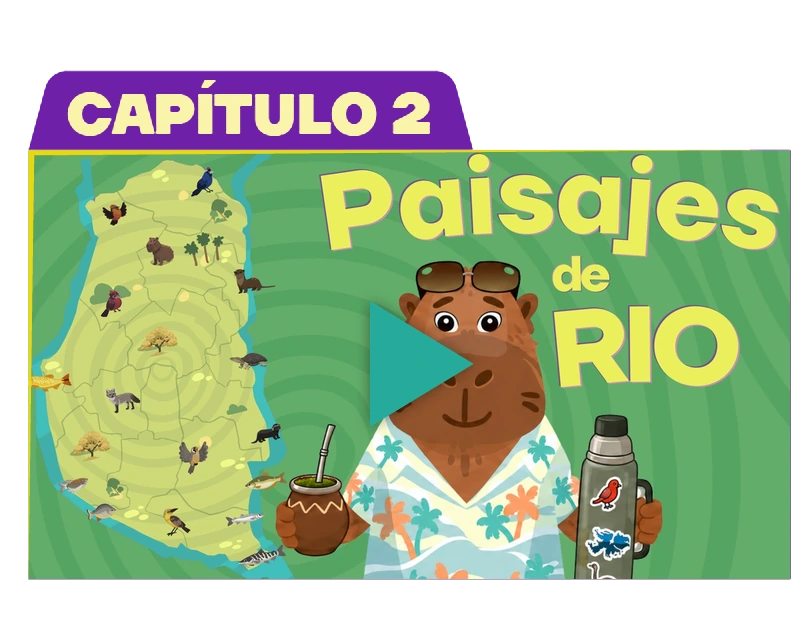
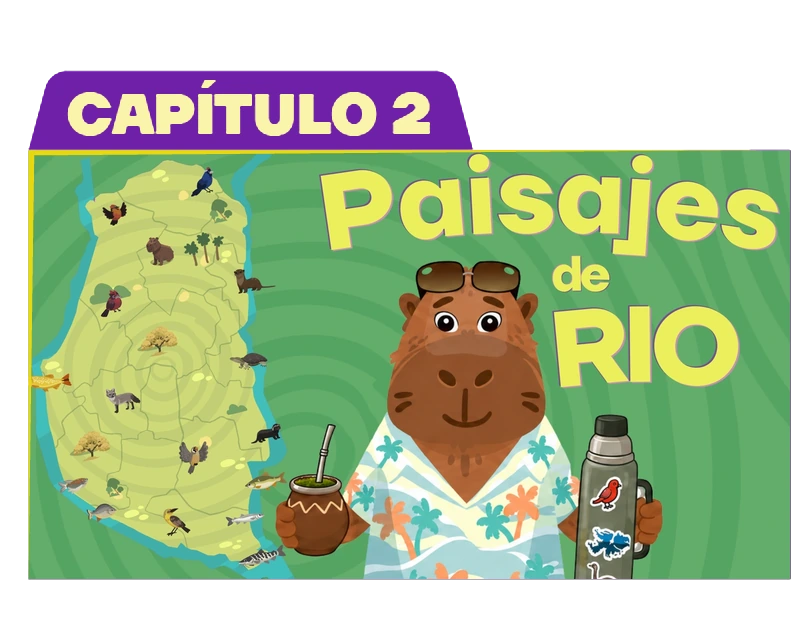
Hero responsive a pantalla completa y tarjetas sin icono de play
- Tarjetas de capitulo regeneradas sin el triangulo de play: se ve la
  portada completa.
- La pagina se parte en dos tableros: el hero (titulo + Gurisa + Rio)
  ocupa toda la primera pantalla y los tres frames quedan debajo del
  fold, con el espacio adaptandose al alto de cada ventana.
- El hero escala con el alto de la ventana (220svh de ancho de escena,
  con piso de 100% y tope de 170vw): el contenido ocupa ~70% del alto
  visible y queda centrado vertical exacto en cualquier pantalla.
- La primera pantalla muestra la escena continua (ondas y halo reales,
  sin franjas de color plano) y la seccion de abajo arranca en y=1530
  con una banda de fondo puro que se funde en gradiente sobre el final
  del hero: los dos tableros empalman sin costura visible.

Changed region(s): [[0.4332, 0.4872, 0.5879, 0.7003]]

diff --git a/index.html b/index.html
@@ -34,109 +34,65 @@
         Gurisa y Rio entre mates y aventuras
       </h1>
 
-      <div class="artboard" aria-label="Gurisa y Rio entre mates y aventuras">
-        <div class="scene">
-          <img
-            class="layer fondo"
-            src="partes/fondo000.png"
-            alt=""
-            aria-hidden="true"
-            draggable="false"
-          >
-          <img class="layer gradients" src="partes/gradients000.png" alt="" aria-hidden="true" draggable="false">
+      <div class="hero-stage">
+        <div class="artboard artboard--hero" aria-label="Gurisa y Rio entre mates y aventuras">
+          <div class="scene scene--hero">
+            <img class="layer fondo" src="partes/fondo000.png" alt="" aria-hidden="true" draggable="false">
+            <img class="layer gradients" src="partes/gradients000.png" alt="" aria-hidden="true" draggable="false">
+            <img class="layer titulo float-soft" src="partes/titulo_pajaro.webp" alt="" aria-hidden="true" draggable="false">
+            <img class="layer girl-standing float-soft delay-1" src="partes/Girl_standing.png" alt="" aria-hidden="true" draggable="false">
+            <img class="layer boy-standing float-soft delay-2" src="partes/Boy_standing.png" alt="" aria-hidden="true" draggable="false">
+          </div>
+        </div>
+      </div>
 
-        <img class="layer titulo float-soft" src="partes/titulo_pajaro.webp" alt="" aria-hidden="true" draggable="false">
-        <img class="layer girl-standing float-soft delay-1" src="partes/Girl_standing.png" alt="" aria-hidden="true" draggable="false">
-        <img class="layer boy-standing float-soft delay-2" src="partes/Boy_standing.png" alt="" aria-hidden="true" draggable="false">
-
-        <img class="layer volti float-soft delay-2" src="partes/Volti_y_amperin_and_animal.png" alt="" aria-hidden="true" draggable="false">
-        <img class="layer modo float-soft delay-3" src="partes/Modo_carpincho_and_animal.png" alt="" aria-hidden="true" draggable="false">
-        <img class="layer jujo float-soft delay-1" src="partes/jujo_aparece_and_man.png" alt="" aria-hidden="true" draggable="false">
-
-        <img class="layer episodios-title title-drift" src="partes/Episodios.png" alt="" aria-hidden="true" draggable="false">
-        <img class="layer capitulo-1-img pop-hover" src="partes/Capitulo1.webp" alt="" aria-hidden="true" draggable="false">
-        <img class="layer capitulo-2-img pop-hover" src="partes/Capitulo2.webp" alt="" aria-hidden="true" draggable="false">
-        <img class="layer capitulo-3-img pop-hover" src="partes/Capitulo3.webp" alt="" aria-hidden="true" draggable="false">
-        <img class="layer capitulo-4-img pop-hover" src="partes/Capitulo4.webp" alt="" aria-hidden="true" draggable="false">
-        <img class="layer capitulo-5-img pop-hover" src="partes/Capitulo5.webp" alt="" aria-hidden="true" draggable="false">
-        <img class="layer capybara-bike float-soft delay-3" src="partes/Capybara_on_bike.png" alt="" aria-hidden="true" draggable="false">
-        <img class="layer animal-pointing float-soft delay-1" src="partes/Animal_pointing_up.png" alt="" aria-hidden="true" draggable="false">
-
-        <img class="layer estrellitas sparkle" src="partes/estrellitas.png" alt="" aria-hidden="true" draggable="false">
-        <img class="layer guias-title title-drift delay-2" src="partes/Guias_para_el_aula.png" alt="" aria-hidden="true" draggable="false">
-        <img class="layer girl-jumping float-soft delay-1" src="partes/Girl_jumping.png" alt="" aria-hidden="true" draggable="false">
-        <img class="layer boy-jumping float-soft delay-2" src="partes/Boy_jumping.png" alt="" aria-hidden="true" draggable="false">
-        <img class="layer guia-1-img paper-wiggle" src="partes/Guia1.webp" alt="" aria-hidden="true" draggable="false">
-        <img class="layer guia-2-img paper-wiggle delay-1" src="partes/Guia2.webp" alt="" aria-hidden="true" draggable="false">
-        <img class="layer guia-3-img paper-wiggle delay-2" src="partes/Guia3.webp" alt="" aria-hidden="true" draggable="false">
-        <img class="layer guia-4-img paper-wiggle delay-3" src="partes/Guia4.webp" alt="" aria-hidden="true" draggable="false">
-        <img class="layer guia-5-img paper-wiggle delay-1" src="partes/Guia5.webp" alt="" aria-hidden="true" draggable="false">
-
-        <img class="layer queres-img pulse-soft" src="partes/Queres_conocer.png" alt="" aria-hidden="true" draggable="false">
-        <img class="layer enersa-img float-soft delay-2" src="partes/Enersa_sign_and_animal_sitting.png" alt="" aria-hidden="true" draggable="false">
-        <img class="layer turismo-img float-soft delay-3" src="partes/Turismo_sign_and_animal_standing.png" alt="" aria-hidden="true" draggable="false">
-        <img class="layer mientrerios-img float-soft delay-1" src="partes/mientrerios_sign_and_man_standing.png" alt="" aria-hidden="true" draggable="false">
-
-        <a class="hotspot volti-button" href="#" data-target="volti" aria-label="Abrir Volti y Amperin"></a>
-        <a class="hotspot modo-button" href="#" data-target="modo" aria-label="Abrir Modo Carpincho"></a>
-        <a class="hotspot jujo-button" href="#" data-target="jujo" aria-label="Abrir Jujo aparece"></a>
-
-        <a
-          class="hotspot capitulo-1"
-          href="https://youtu.be/xgmZ50ChQK0"
-          target="_blank"
-          rel="noopener"
-          data-target="capitulo-1-img"
-          aria-label="Ver el capitulo 1 en YouTube"
-        ></a>
-        <a
-          class="hotspot capitulo-2"
-          href="https://youtu.be/vWThHisS7hY"
-          target="_blank"
-          rel="noopener"
-          data-target="capitulo-2-img"
-          aria-label="Ver el capitulo 2 en YouTube"
-        ></a>
-        <a
-          class="hotspot capitulo-3"
-          href="https://youtu.be/KFNbEnc6LHw"
-          target="_blank"
-          rel="noopener"
-          data-target="capitulo-3-img"
-          aria-label="Ver el capitulo 3 en YouTube"
-        ></a>
-        <a
-          class="hotspot capitulo-4"
-          href="https://youtu.be/b-zdLcTubB0"
-          target="_blank"
-          rel="noopener"
-          data-target="capitulo-4-img"
-          aria-label="Ver el capitulo 4 en YouTube"
-        ></a>
-        <a
-          class="hotspot capitulo-5"
-          href="https://youtu.be/6I3HvJMRZm8"
-          target="_blank"
-          rel="noopener"
-          data-target="capitulo-5-img"
-          aria-label="Ver el capitulo 5 en YouTube"
-        ></a>
-
-        <a class="hotspot guia-1" href="#" data-target="guia-1-img" aria-label="Abrir guia 1"></a>
-        <a class="hotspot guia-2" href="#" data-target="guia-2-img" aria-label="Abrir guia 2"></a>
-        <a class="hotspot guia-3" href="#" data-target="guia-3-img" aria-label="Abrir guia 3"></a>
-        <a class="hotspot guia-4" href="#" data-target="guia-4-img" aria-label="Abrir guia 4"></a>
-        <a class="hotspot guia-5" href="#" data-target="guia-5-img" aria-label="Abrir guia 5"></a>
-
-        <a
-          class="hotspot queres-conocer"
-          href="#"
-          data-target="queres-img"
-          aria-label="Conocer mas aventuras de Gurisa y Rio"
-        ></a>
-        <a class="hotspot enersa" href="#" data-target="enersa-img" aria-label="Abrir Enersa"></a>
-          <a class="hotspot turismo" href="#" data-target="turismo-img" aria-label="Abrir Turismo"></a>
-          <a class="hotspot mientrerios" href="#" data-target="mientrerios-img" aria-label="Abrir Mientrerios"></a>
+      <div class="rest">
+        <div class="artboard artboard--rest">
+          <div class="scene scene--rest">
+            <img class="layer fondo" src="partes/fondo000.png" alt="" aria-hidden="true" draggable="false">
+            <img class="layer gradients" src="partes/gradients000.png" alt="" aria-hidden="true" draggable="false">
+            <img class="layer volti float-soft delay-2" src="partes/Volti_y_amperin_and_animal.png" alt="" aria-hidden="true" draggable="false">
+            <img class="layer modo float-soft delay-3" src="partes/Modo_carpincho_and_animal.png" alt="" aria-hidden="true" draggable="false">
+            <img class="layer jujo float-soft delay-1" src="partes/jujo_aparece_and_man.png" alt="" aria-hidden="true" draggable="false">
+            <img class="layer episodios-title title-drift" src="partes/Episodios.png" alt="" aria-hidden="true" draggable="false">
+            <img class="layer capitulo-1-img pop-hover" src="partes/Capitulo1.webp" alt="" aria-hidden="true" draggable="false">
+            <img class="layer capitulo-2-img pop-hover" src="partes/Capitulo2.webp" alt="" aria-hidden="true" draggable="false">
+            <img class="layer capitulo-3-img pop-hover" src="partes/Capitulo3.webp" alt="" aria-hidden="true" draggable="false">
+            <img class="layer capitulo-4-img pop-hover" src="partes/Capitulo4.webp" alt="" aria-hidden="true" draggable="false">
+            <img class="layer capitulo-5-img pop-hover" src="partes/Capitulo5.webp" alt="" aria-hidden="true" draggable="false">
+            <img class="layer capybara-bike float-soft delay-3" src="partes/Capybara_on_bike.png" alt="" aria-hidden="true" draggable="false">
+            <img class="layer animal-pointing float-soft delay-1" src="partes/Animal_pointing_up.png" alt="" aria-hidden="true" draggable="false">
+            <img class="layer estrellitas sparkle" src="partes/estrellitas.png" alt="" aria-hidden="true" draggable="false">
+            <img class="layer guias-title title-drift delay-2" src="partes/Guias_para_el_aula.png" alt="" aria-hidden="true" draggable="false">
+            <img class="layer girl-jumping float-soft delay-1" src="partes/Girl_jumping.png" alt="" aria-hidden="true" draggable="false">
+            <img class="layer boy-jumping float-soft delay-2" src="partes/Boy_jumping.png" alt="" aria-hidden="true" draggable="false">
+            <img class="layer guia-1-img paper-wiggle" src="partes/Guia1.webp" alt="" aria-hidden="true" draggable="false">
+            <img class="layer guia-2-img paper-wiggle delay-1" src="partes/Guia2.webp" alt="" aria-hidden="true" draggable="false">
+            <img class="layer guia-3-img paper-wiggle delay-2" src="partes/Guia3.webp" alt="" aria-hidden="true" draggable="false">
+            <img class="layer guia-4-img paper-wiggle delay-3" src="partes/Guia4.webp" alt="" aria-hidden="true" draggable="false">
+            <img class="layer guia-5-img paper-wiggle delay-1" src="partes/Guia5.webp" alt="" aria-hidden="true" draggable="false">
+            <img class="layer queres-img pulse-soft" src="partes/Queres_conocer.png" alt="" aria-hidden="true" draggable="false">
+            <img class="layer enersa-img float-soft delay-2" src="partes/Enersa_sign_and_animal_sitting.png" alt="" aria-hidden="true" draggable="false">
+            <img class="layer turismo-img float-soft delay-3" src="partes/Turismo_sign_and_animal_standing.png" alt="" aria-hidden="true" draggable="false">
+            <img class="layer mientrerios-img float-soft delay-1" src="partes/mientrerios_sign_and_man_standing.png" alt="" aria-hidden="true" draggable="false">
+            <a class="hotspot volti-button" href="#" data-target="volti" aria-label="Abrir Volti y Amperin"></a>
+            <a class="hotspot modo-button" href="#" data-target="modo" aria-label="Abrir Modo Carpincho"></a>
+            <a class="hotspot jujo-button" href="#" data-target="jujo" aria-label="Abrir Jujo aparece"></a>
+            <a class="hotspot capitulo-1" href="https://youtu.be/xgmZ50ChQK0" target="_blank" rel="noopener" data-target="capitulo-1-img" aria-label="Ver el capitulo 1 en YouTube"></a>
+            <a class="hotspot capitulo-2" href="https://youtu.be/vWThHisS7hY" target="_blank" rel="noopener" data-target="capitulo-2-img" aria-label="Ver el capitulo 2 en YouTube"></a>
+            <a class="hotspot capitulo-3" href="https://youtu.be/KFNbEnc6LHw" target="_blank" rel="noopener" data-target="capitulo-3-img" aria-label="Ver el capitulo 3 en YouTube"></a>
+            <a class="hotspot capitulo-4" href="https://youtu.be/b-zdLcTubB0" target="_blank" rel="noopener" data-target="capitulo-4-img" aria-label="Ver el capitulo 4 en YouTube"></a>
+            <a class="hotspot capitulo-5" href="https://youtu.be/6I3HvJMRZm8" target="_blank" rel="noopener" data-target="capitulo-5-img" aria-label="Ver el capitulo 5 en YouTube"></a>
+            <a class="hotspot guia-1" href="#" data-target="guia-1-img" aria-label="Abrir guia 1"></a>
+            <a class="hotspot guia-2" href="#" data-target="guia-2-img" aria-label="Abrir guia 2"></a>
+            <a class="hotspot guia-3" href="#" data-target="guia-3-img" aria-label="Abrir guia 3"></a>
+            <a class="hotspot guia-4" href="#" data-target="guia-4-img" aria-label="Abrir guia 4"></a>
+            <a class="hotspot guia-5" href="#" data-target="guia-5-img" aria-label="Abrir guia 5"></a>
+            <a class="hotspot queres-conocer" href="#" data-target="queres-img" aria-label="Conocer mas aventuras de Gurisa y Rio"></a>
+            <a class="hotspot enersa" href="#" data-target="enersa-img" aria-label="Abrir Enersa"></a>
+            <a class="hotspot turismo" href="#" data-target="turismo-img" aria-label="Abrir Turismo"></a>
+            <a class="hotspot mientrerios" href="#" data-target="mientrerios-img" aria-label="Abrir Mientrerios"></a>
+          </div>
         </div>
       </div>
     </main>

diff --git a/styles.css b/styles.css
@@ -1,7 +1,18 @@
 :root {
   color-scheme: light;
   --page-bg: #63ad6a;
-  --top-crop: 17.9663%;
+  /*
+    La escena completa mide 1921x5399. Se parte en dos tableros para que al
+    entrar se vea solo el hero (titulo + Gurisa + Rio) centrado en la pantalla
+    y los tres frames de abajo queden fuera de la vista. El tablero del hero
+    ocupa toda la primera pantalla y muestra la escena de forma continua (su
+    copia de la escena solo tiene fondo, titulo y personajes, sin frames). El
+    resto arranca en y=1530 de la escena (--crop-rest): las 128 unidades de
+    fondo puro que hay hasta los frames (y=1658) se solapan con el final del
+    hero y se funden en gradiente sobre el (ver .rest / .artboard--rest), asi
+    los dos tableros empalman sin costura aunque el hero este mas ampliado.
+  */
+  --crop-rest: 28.3386%;
   --grape: #7b1fa2;
   --grape-deep: #5e1380;
   --paper: #f4ec96;
@@ -27,17 +38,73 @@ body {
 
 .site {
   display: flex;
-  justify-content: center;
+  flex-direction: column;
+  align-items: center;
   width: 100%;
+}
+
+/*
+  El hero ocupa (al menos) toda la primera pantalla y se centra vertical: al
+  entrar se ve el titulo con los personajes centrado, con aire arriba y abajo, y
+  los frames de abajo (en .rest) caen recien despues de 100svh.
+*/
+.hero-stage {
+  width: 100%;
+  height: 100vh;
+  height: 100svh;
+  background: var(--page-bg);
+}
+
+.rest {
+  width: 100%;
+  display: flex;
+  justify-content: center;
+  /*
+    Sube el tablero para que su banda de fondo puro (1530 a 1658 de la escena,
+    128/1921 = 6.6632% del ancho del tablero) se superponga con el final del
+    hero. Con la mascara de .artboard--rest, esa banda aparece en gradiente
+    sobre el hero: los dos patrones se cruzan sin linea visible, y los frames
+    (y=1658) quedan exactamente donde estaban, al borde de la primera pantalla.
+  */
+  margin-top: calc(min(100vw, 1921px) * -0.066632);
 }
 
 .artboard {
   position: relative;
   width: min(100%, 1921px);
-  aspect-ratio: 1921 / 3399;
   overflow: hidden;
   background: var(--page-bg);
   line-height: 0;
+}
+
+/*
+  El tablero del hero es la primera pantalla completa: una ventana de 100vw x
+  100svh sobre la escena, sin franjas de relleno. El fondo que se ve arriba,
+  abajo y a los costados del titulo es siempre el dibujo real (ondas y halo
+  amarillo), nunca un color plano.
+*/
+.artboard--hero {
+  width: 100%;
+  height: 100%;
+}
+
+/* Resto de la pagina: escena de 1530 hacia abajo (1921 x 2839). */
+.artboard--rest {
+  aspect-ratio: 1921 / 2839;
+  /*
+    Fundido de entrada sobre el hero: transparente arriba y opaco justo donde
+    empiezan los frames (mismo largo que el margen negativo de .rest).
+  */
+  -webkit-mask-image: linear-gradient(
+    to bottom,
+    transparent 0,
+    #000 calc(min(100vw, 1921px) * 0.066632)
+  );
+  mask-image: linear-gradient(
+    to bottom,
+    transparent 0,
+    #000 calc(min(100vw, 1921px) * 0.066632)
+  );
 }
 
 .scene {
@@ -46,8 +113,35 @@ body {
   top: 0;
   width: 100%;
   aspect-ratio: 1921 / 5399;
-  transform: translateY(calc(-1 * var(--top-crop)));
   transform-origin: top center;
+}
+
+/*
+  La escena del hero se escala con el ALTO de la ventana (220svh de ancho) para
+  que el conjunto crezca con la pantalla: el contenido (copete de Gurisa y=1028
+  a subtitulo y=1643, 615 unidades) ocupa 615/1921 x 220svh = ~70% del alto
+  visible. Puede quedar mas ancha que la ventana: el sobrante de fondo se
+  recorta parejo a los costados. Topes: nunca menos que el ancho de la ventana,
+  y no mas de 170vw para que el contenido (441..1489, 1049 unidades) siempre
+  entre a lo ancho: 1921/1.70 = 1130 > 1049.
+
+  El centrado vertical es del CONTENIDO: left/top 50% ponen el origen de la
+  escena en el centro de la pantalla y el translate corre la escena para que el
+  centro del contenido (y=1335.5, el 24.736% de sus 5399) caiga justo ahi.
+
+  (Esta regla tiene que ir despues de .scene: pisa left/top/width con la misma
+  especificidad.)
+*/
+.scene--hero {
+  left: 50%;
+  top: 50%;
+  width: max(100%, min(220vh, 170vw));
+  width: max(100%, min(220svh, 170vw));
+  transform: translate(-50%, -24.736%);
+}
+
+.scene--rest {
+  transform: translateY(calc(-1 * var(--crop-rest)));
 }
 
 .layer {
@@ -287,9 +381,9 @@ body {
   cuadro. El loop infinito ya viene en el propio archivo.
 
   --y bajo 50px respecto del original (16.7484%) por el vuelo del pajaro: en el
-  despegue (cuadros 165-170) subia hasta y=968 de la escena, por encima del
-  borde visible, y se lo veia rebotar contra el techo de la pagina. Con esto y
-  el --top-crop nuevo le quedan ~48px de aire.
+  despegue (cuadros 165-170) subia demasiado y se lo veia rebotar contra el
+  borde. Ahora ademas el hero muestra la escena continua hacia arriba, asi que
+  al pajaro le sobra cielo por encima.
 
   El WebP esta regenerado a partir del master sin perdida de 1920 y con el drift
   del titulo compensado: las letras se corrian hasta 4.6 px del lienzo a lo
